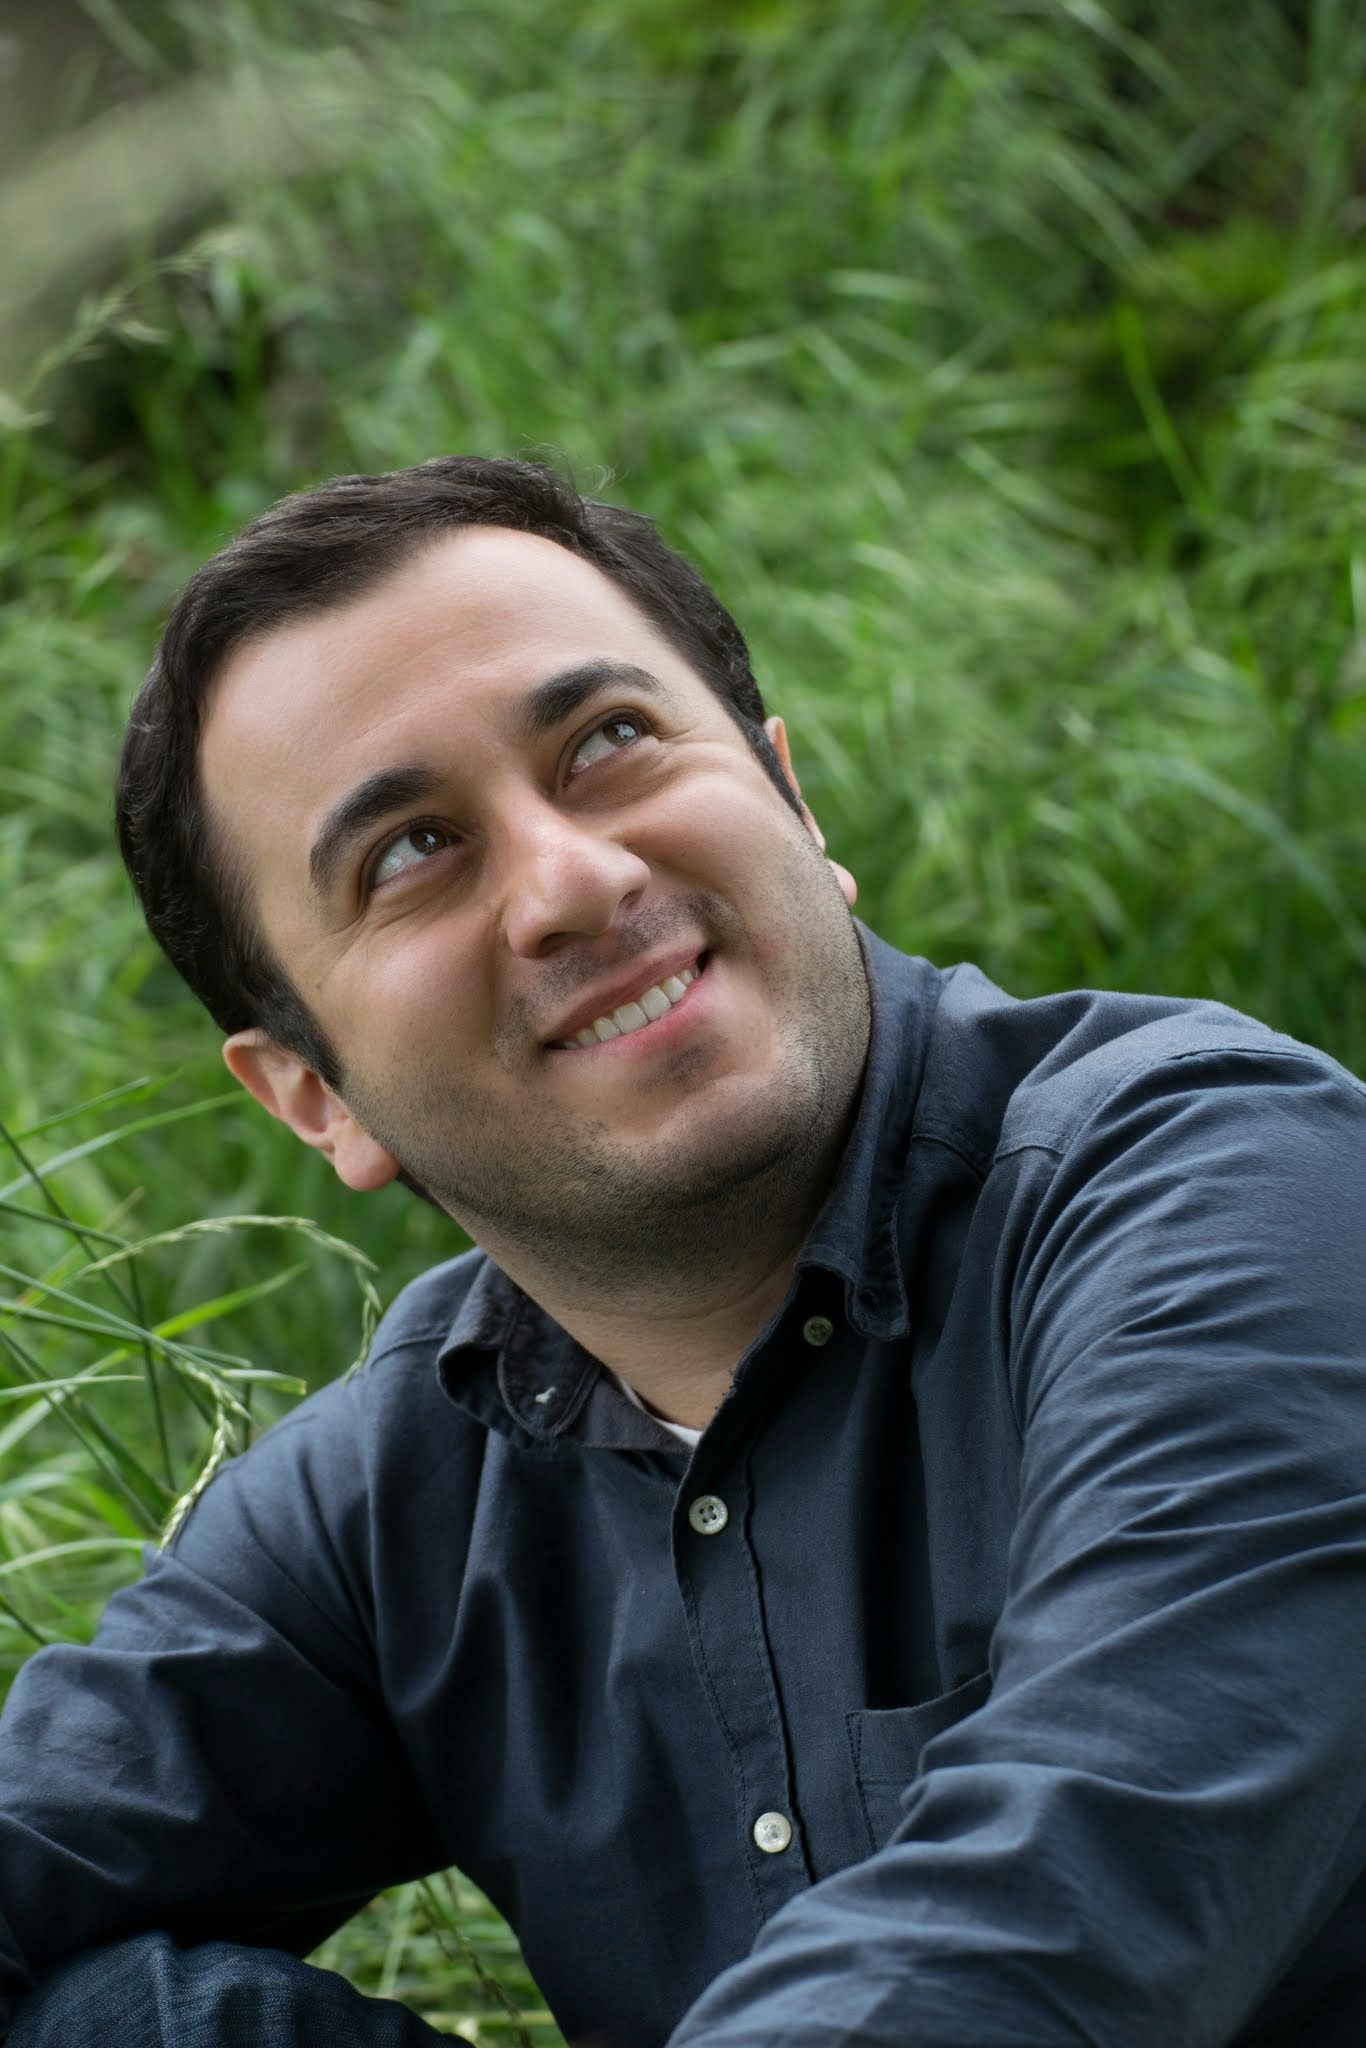
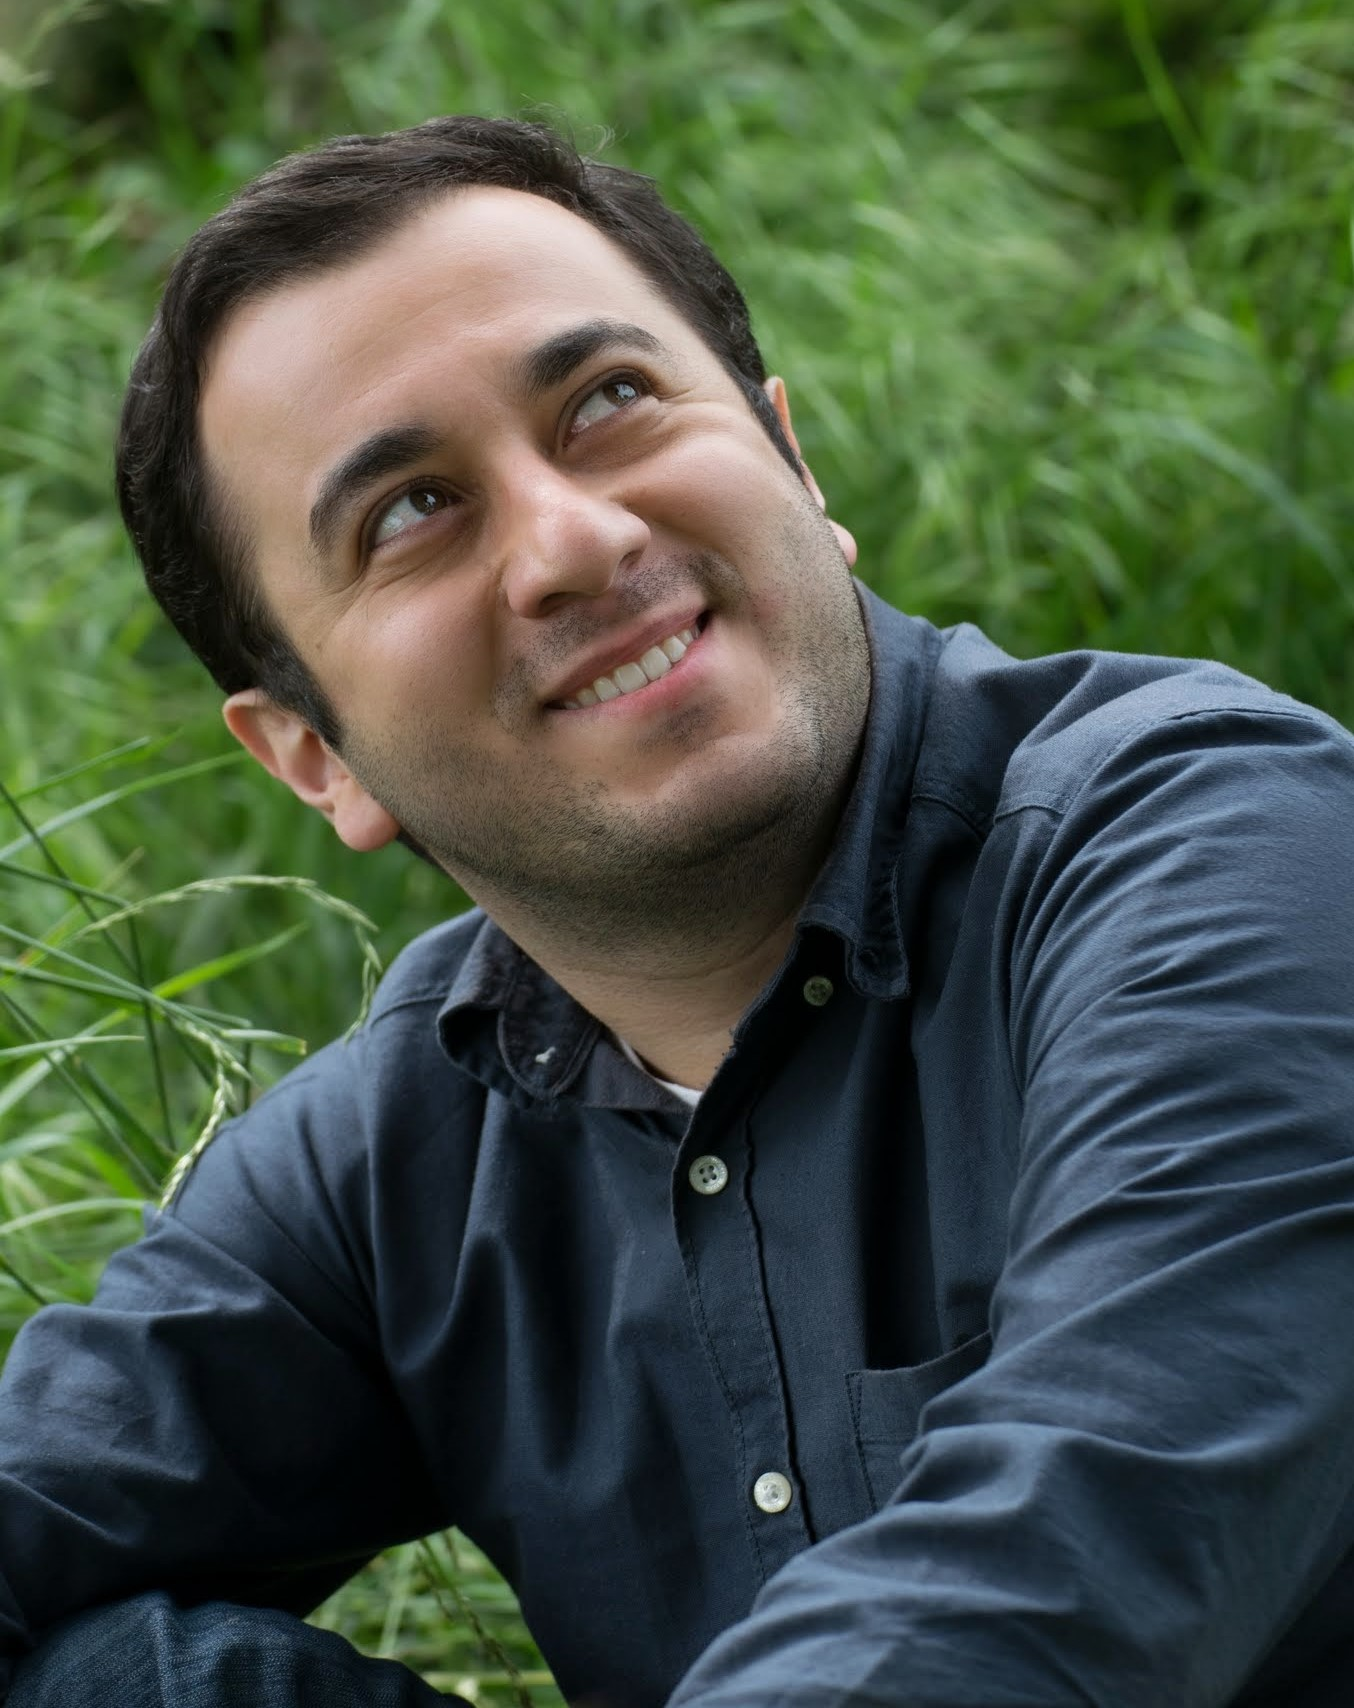
update

diff --git a/research.html b/research.html
@@ -216,12 +216,11 @@ $(document).ready(function () {
 <div id="working-papers" class="section level2">
 <h2>working papers</h2>
 <ul>
-<li><strong>Finance and Poverty: Evidence from India,</strong> with Meghana Ayyagari and Thorsten Beck, <a href="http://papers.ssrn.com/sol3/papers.cfm?abstract_id=2275150" class="uri">http://papers.ssrn.com/sol3/papers.cfm?abstract_id=2275150</a></li>
-<li><p>Vox column summary: <a href="http://www.voxeu.org/article/migrating-out-poverty-role-finance" class="uri">http://www.voxeu.org/article/migrating-out-poverty-role-finance</a></p></li>
-<li><p><strong>Value-Added Tax and Shadow Economy: The Role of Input-Output Linkages,</strong> <a href="http://papers.ssrn.com/sol3/papers.cfm?abstract_id=2291867" class="uri">http://papers.ssrn.com/sol3/papers.cfm?abstract_id=2291867</a></p></li>
-<li><p><strong>Informality and Access to Finance: Evidence from India,</strong> with Thorsten Beck, <a href="http://papers.ssrn.com/sol3/papers.cfm?abstract_id=2491466" class="uri">http://papers.ssrn.com/sol3/papers.cfm?abstract_id=2491466</a></p></li>
-<li><p><strong>Misreporting of VAT and Optimal Enforcement,</strong> <a href="http://papers.ssrn.com/sol3/papers.cfm?abstract_id=2505998" class="uri">http://papers.ssrn.com/sol3/papers.cfm?abstract_id=2505998</a></p></li>
-<li><p><strong>Trade credit and access to finance of retailers in Ethiopia,</strong> with Thorsten Beck and Burak Uras. DFID Working Paper.</p></li>
+<li><p><strong>Value-Added Tax and Shadow Economy: The Role of Input-Output Linkages</strong> <a href="http://papers.ssrn.com/sol3/papers.cfm?abstract_id=2291867">SSRN link</a></p></li>
+<li><p><strong>Finance and Poverty: Evidence from India,</strong> with Meghana Ayyagari and Thorsten Beck <a href="http://papers.ssrn.com/sol3/papers.cfm?abstract_id=2275150">SSRN link</a>, <a href="http://www.voxeu.org/article/migrating-out-poverty-role-finance">Vox column summary</a></p></li>
+<li><p><strong>Informality and Access to Finance: Evidence from India,</strong> with Thorsten Beck <a href="http://papers.ssrn.com/sol3/papers.cfm?abstract_id=2491466">SSRN link</a></p></li>
+<li><p><strong>Misreporting of VAT and Optimal Enforcement</strong> <a href="http://papers.ssrn.com/sol3/papers.cfm?abstract_id=2505998">SSRN link</a></p></li>
+<li><p><strong>Trade credit and access to finance of retailers in Ethiopia,</strong> with Thorsten Beck and Burak Uras <a href="https://assets.publishing.service.gov.uk/media/5aaa440fed915d4f595c5a67/Beck_et_al_Trade_credit_in_Ethiopia.pdf">link</a></p></li>
 <li><p><strong>VAT reform, Distortions, and Informality: Evidence from Indian States,</strong> with Oceane Briand.</p></li>
 </ul>
 <pre class="r"><code>summary(cars)</code></pre>

diff --git a/index.html b/index.html
@@ -11,7 +11,7 @@
 
 
 
-<title>Welcome to my site</title>
+<title></title>
 
 <script src="site_libs/jquery-1.11.3/jquery.min.js"></script>
 <meta name="viewport" content="width=device-width, initial-scale=1" />
@@ -208,16 +208,28 @@ $(document).ready(function () {
 
 
 
-<h1 class="title toc-ignore">Welcome to my site</h1>
 
 </div>
 
 
-<p>I am an assistant professor of economics at Institute for Management and Planning Studies (IMPS) in Tehran, Iran. My primary fileds are development economics and public economics.</p>
-<div class="figure">
-<img src="DSC_0998.jpg" />
-
-</div>
+<table style="width:62%;">
+<colgroup>
+<col width="33%" />
+<col width="29%" />
+</colgroup>
+<thead>
+<tr class="header">
+<th>Welcome!</th>
+<th align="right"></th>
+</tr>
+</thead>
+<tbody>
+<tr class="odd">
+<td>I am an assistant professor of economics at Institute for Management and Planning Studies (IMPS) in Tehran, Iran. My primary fileds are development economics and public economics.</td>
+<td align="right"><img src="DSC_0998.jpg" /></td>
+</tr>
+</tbody>
+</table>
 
 
 
